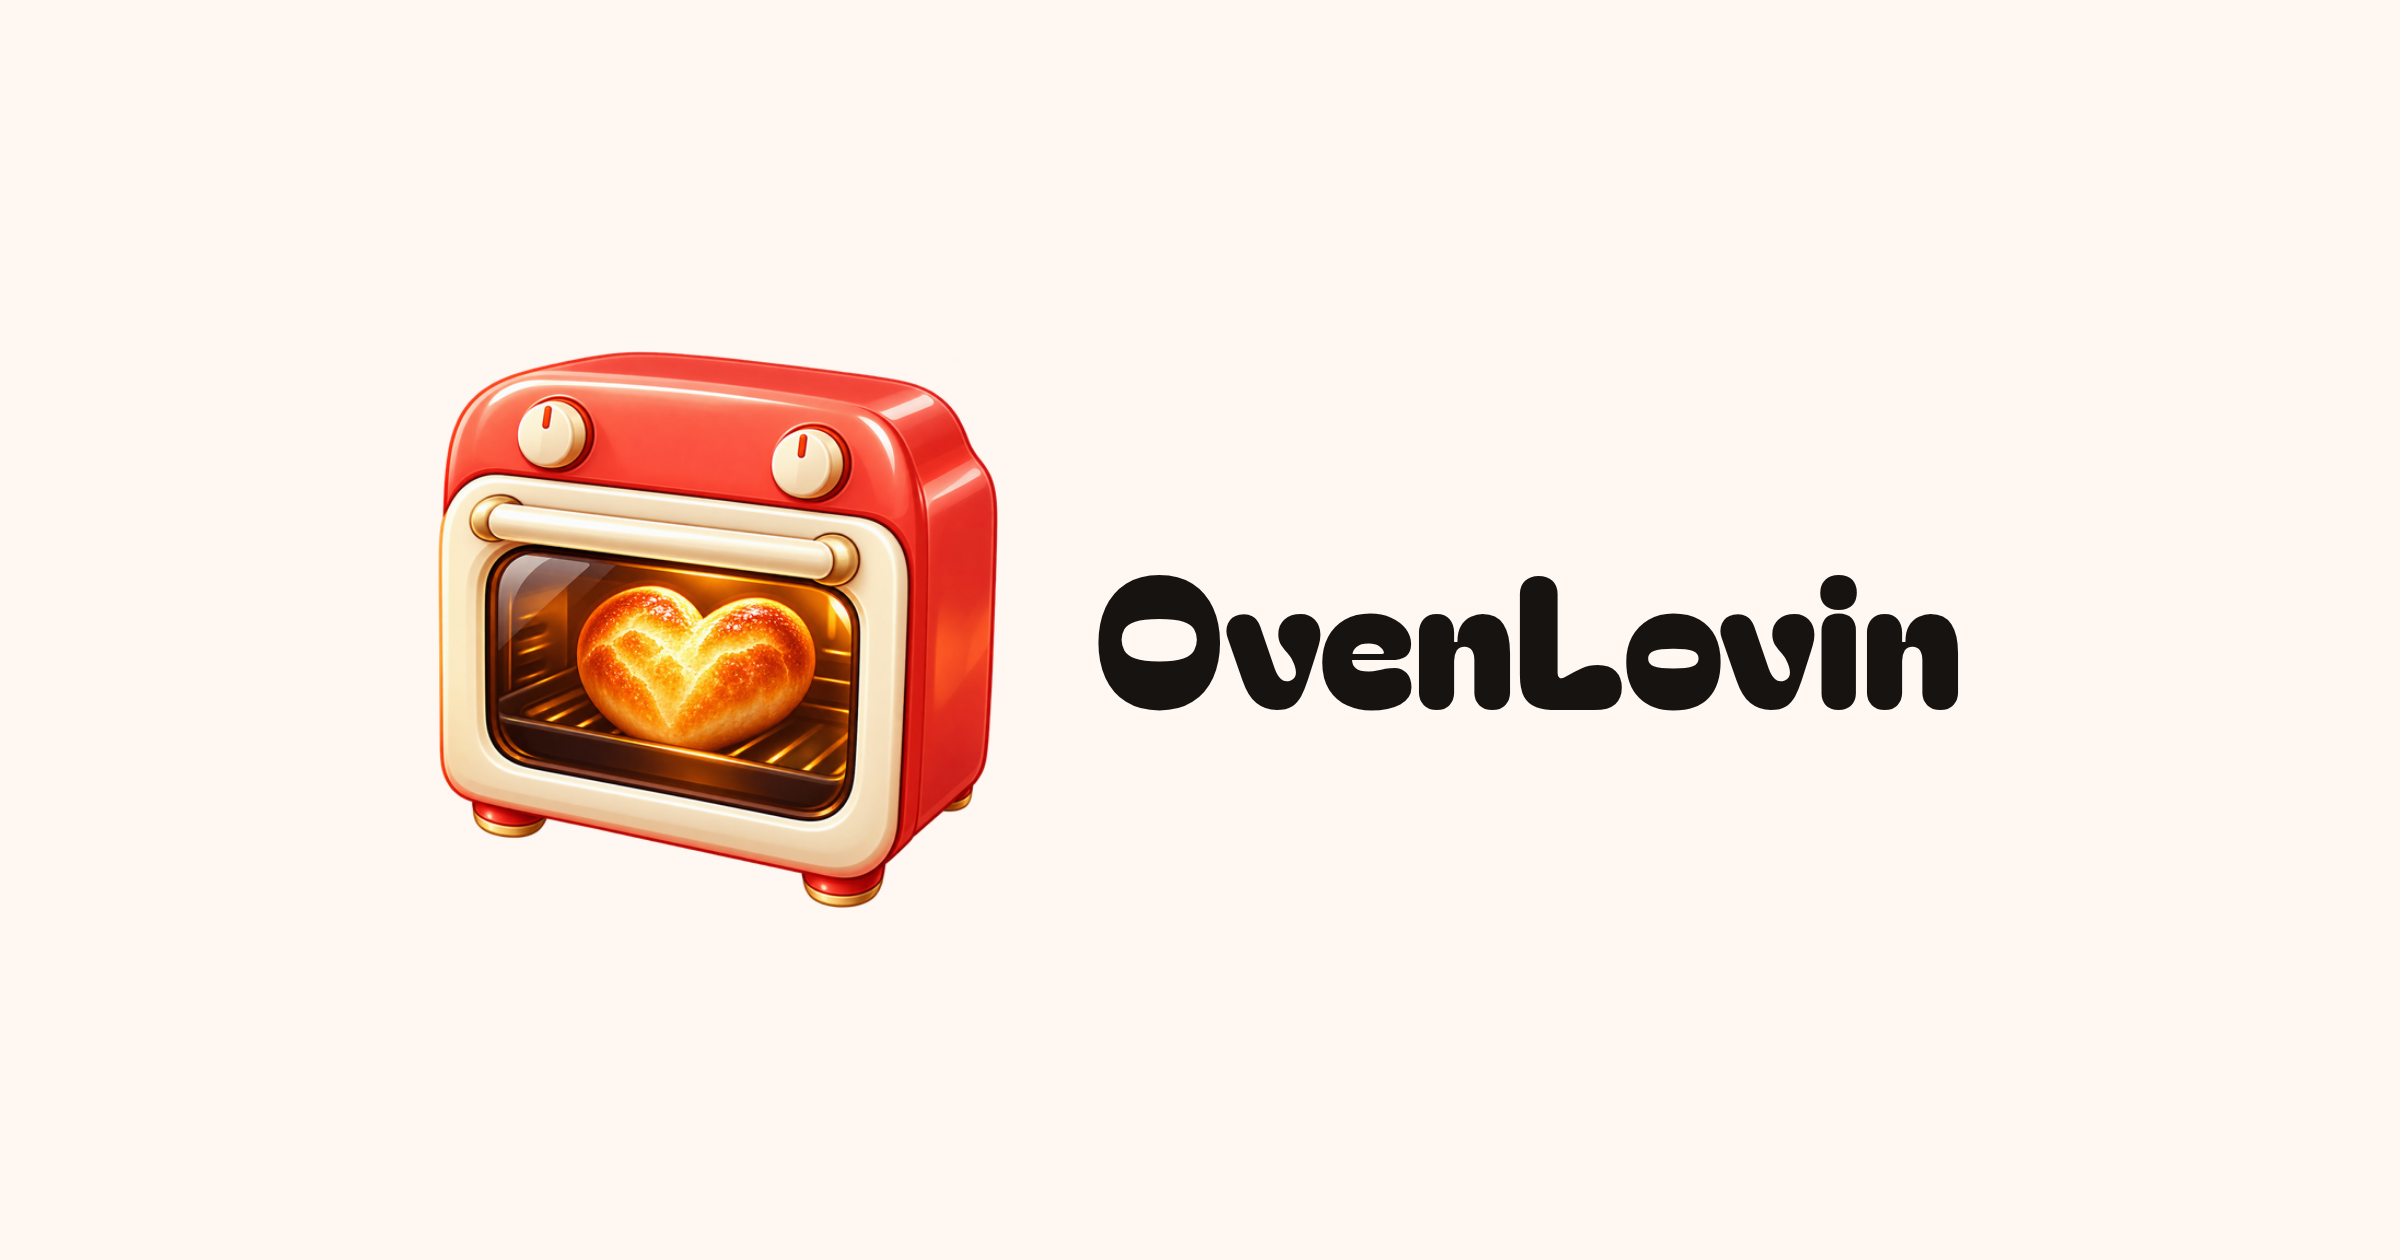
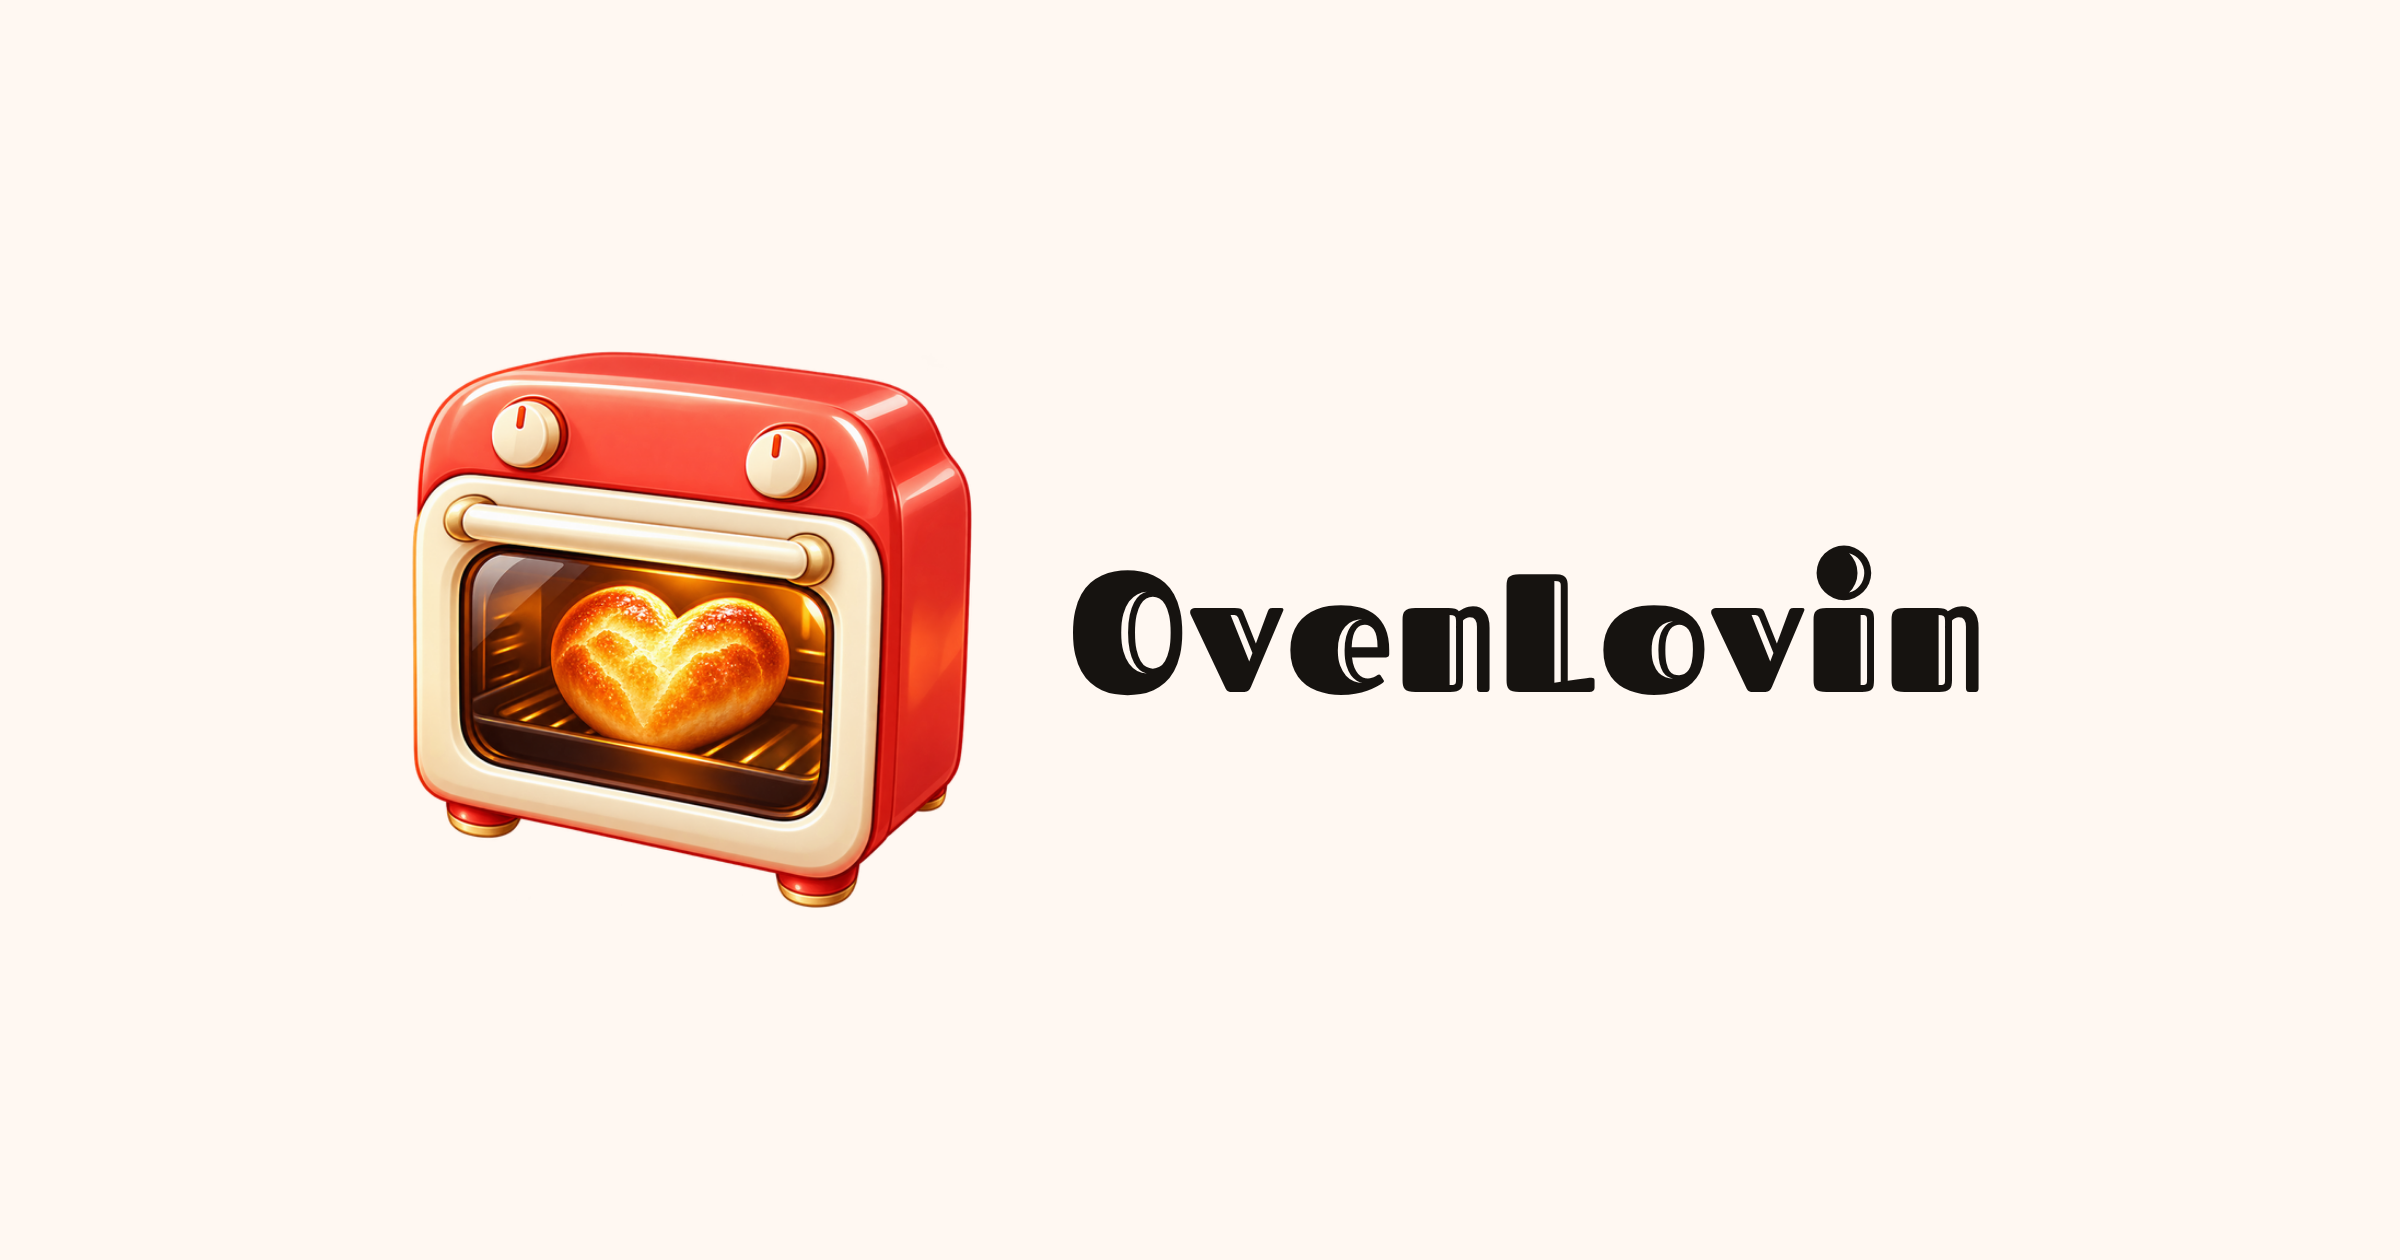
feat(brand): switch wordmark to Fascinate Inline (#84)
Replace Bagel Fat One with Fascinate Inline everywhere the OvenLovin wordmark is set — next/font in the app and docs, plus rasterized README/OG assets. Body copy stays Geist.

Changed region(s): [[0.1562, 0.2786, 0.8438, 0.7429]]

diff --git a/apps/docs/src/app/layout.tsx b/apps/docs/src/app/layout.tsx
@@ -2,7 +2,7 @@ import { withBasePath } from "@/lib/base-path";
 import { brandPublicPath } from "@ovenlovin/brand";
 import type { ReactNode } from "react";
 import { RootProvider } from "fumadocs-ui/provider";
-import { Bagel_Fat_One, Geist, Geist_Mono } from "next/font/google";
+import { Fascinate_Inline, Geist, Geist_Mono } from "next/font/google";
 import "./globals.css";
 
 const geistSans = Geist({
@@ -15,7 +15,7 @@ const geistMono = Geist_Mono({
   variable: "--font-geist-mono",
 });
 
-const bagel = Bagel_Fat_One({
+const fascinate = Fascinate_Inline({
   weight: "400",
   subsets: ["latin"],
   variable: "--font-display",
@@ -61,7 +61,7 @@ export default function RootLayout({ children }: { children: ReactNode }): React
     <html
       lang="en"
       suppressHydrationWarning
-      className={`${geistSans.variable} ${geistMono.variable} ${bagel.variable}`}
+      className={`${geistSans.variable} ${geistMono.variable} ${fascinate.variable}`}
     >
       <body className="font-sans">
         <RootProvider>{children}</RootProvider>

diff --git a/apps/web/src/app/layout.tsx b/apps/web/src/app/layout.tsx
@@ -1,5 +1,5 @@
 import type { Metadata } from "next";
-import { Bagel_Fat_One, Geist, Geist_Mono } from "next/font/google";
+import { Fascinate_Inline, Geist, Geist_Mono } from "next/font/google";
 import { brandPublicPath } from "@ovenlovin/brand";
 import { ClerkReadyProvider } from "@/components/ClerkReadyProvider";
 import "./globals.css";
@@ -14,7 +14,7 @@ const geistMono = Geist_Mono({
   variable: "--font-geist-mono",
 });
 
-const bagel = Bagel_Fat_One({
+const fascinate = Fascinate_Inline({
   weight: "400",
   subsets: ["latin"],
   variable: "--font-display",
@@ -47,7 +47,7 @@ export default function RootLayout({
   children: React.ReactNode;
 }>) {
   return (
-    <html lang="en" className={`${geistSans.variable} ${geistMono.variable} ${bagel.variable}`}>
+    <html lang="en" className={`${geistSans.variable} ${geistMono.variable} ${fascinate.variable}`}>
       <body>
         <ClerkReadyProvider>{children}</ClerkReadyProvider>
       </body>

diff --git a/apps/web/src/app/globals.css b/apps/web/src/app/globals.css
@@ -18,7 +18,7 @@
   --bad: #c4473a;
   --sans: var(--font-geist-sans, "Geist"), ui-sans-serif, system-ui, sans-serif;
   --mono: var(--font-geist-mono, ui-monospace), "SFMono-Regular", Menlo, monospace;
-  --display: var(--font-display, "Bagel Fat One"), cursive;
+  --display: var(--font-display, "Fascinate Inline"), cursive;
   --max: 1080px;
   --gut: 24px;
   --r: 14px;
@@ -126,9 +126,9 @@ select {
   gap: 10px;
   font-family: var(--display);
   font-weight: 400;
-  font-size: 22px;
+  font-size: 24px;
   line-height: 1;
-  letter-spacing: 0;
+  letter-spacing: 0.01em;
 }
 
 .brand img {

diff --git a/apps/docs/tailwind.config.ts b/apps/docs/tailwind.config.ts
@@ -52,7 +52,7 @@ const config: Config = {
       fontFamily: {
         sans: ["var(--font-geist-sans)", "ui-sans-serif", "system-ui", "sans-serif"],
         mono: ["var(--font-geist-mono)", "ui-monospace", "SFMono-Regular", "monospace"],
-        display: ["var(--font-display)", "Bagel Fat One", "cursive"],
+        display: ["var(--font-display)", "Fascinate Inline", "cursive"],
       },
     },
   },

diff --git a/packages/brand/src/index.test.ts b/packages/brand/src/index.test.ts
@@ -19,8 +19,8 @@ describe("@ovenlovin/brand", () => {
     expect(BRAND_NAME).not.toMatch(/\s/);
   });
 
-  it("uses Bagel Fat One for the wordmark", () => {
-    expect(BRAND_DISPLAY_FONT).toBe("Bagel Fat One");
+  it("uses Fascinate Inline for the wordmark", () => {
+    expect(BRAND_DISPLAY_FONT).toBe("Fascinate Inline");
   });
 
   it("lists every asset and public path", () => {

diff --git a/apps/docs/src/components/brand-wordmark.tsx b/apps/docs/src/components/brand-wordmark.tsx
@@ -3,7 +3,7 @@ import { BRAND_NAME, brandPublicPath } from "@ovenlovin/brand";
 import Image from "next/image";
 
 const sizes = {
-  nav: { mark: 28, word: "text-[1.35rem] leading-none" },
+  nav: { mark: 28, word: "text-[1.5rem] leading-none tracking-[0.01em]" },
   hero: { mark: 112, word: "text-5xl leading-none sm:text-6xl" },
 } as const;
 

diff --git a/packages/brand/src/index.ts b/packages/brand/src/index.ts
@@ -1,7 +1,7 @@
 export const BRAND_NAME = "OvenLovin";
 
 /** Playful display face for the single-word wordmark. Body text stays Geist. */
-export const BRAND_DISPLAY_FONT = "Bagel Fat One";
+export const BRAND_DISPLAY_FONT = "Fascinate Inline";
 
 export const brandAssets = {
   mark: "mark.png",

diff --git a/packages/brand/README.md b/packages/brand/README.md
@@ -4,7 +4,7 @@ Shared OvenLovin logo, wordmark, and social images.
 
 The mark is Ty's illustrated toaster oven — a red oven with a heart-shaped bun — in the same isolated-object spirit as [barrito](https://tbarho.github.io/barrito/). It is a PNG (the source is a 3D render; an SVG trace would not stay faithful). The same mark reads on light and dark backgrounds.
 
-The wordmark is the single word **OvenLovin** (capital O, capital L, no space) set in [Bagel Fat One](https://fonts.google.com/specimen/Bagel+Fat+One). Live apps load the face with `next/font`; static PNGs are rasterized for GitHub and Open Graph, which cannot load webfonts. Body copy stays Geist.
+The wordmark is the single word **OvenLovin** (capital O, capital L, no space) set in [Fascinate Inline](https://fonts.google.com/specimen/Fascinate+Inline). Live apps load the face with `next/font`; static PNGs are rasterized for GitHub and Open Graph, which cannot load webfonts. Body copy stays Geist.
 
 ## Assets
 
@@ -30,5 +30,5 @@ Use the public paths from `brandPublicPath` (`/brand/mark.png`, `/brand/wordmark
 To regenerate the raster wordmarks after a font change:
 
 ```bash
-BAGEL_TTF=/path/to/BagelFatOne-Regular.ttf node packages/brand/scripts/render-wordmarks.mjs
+FONT_TTF=/path/to/FascinateInline-Regular.ttf node packages/brand/scripts/render-wordmarks.mjs
 ```
